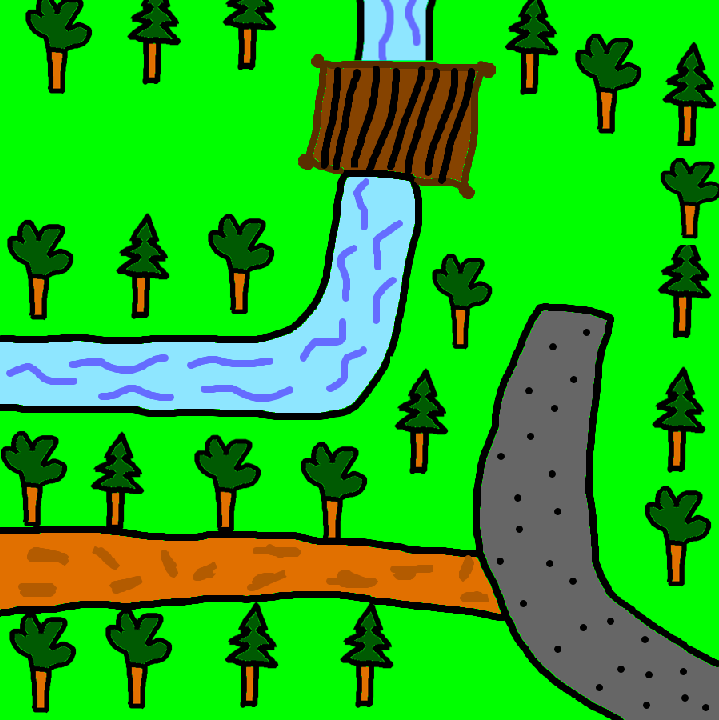
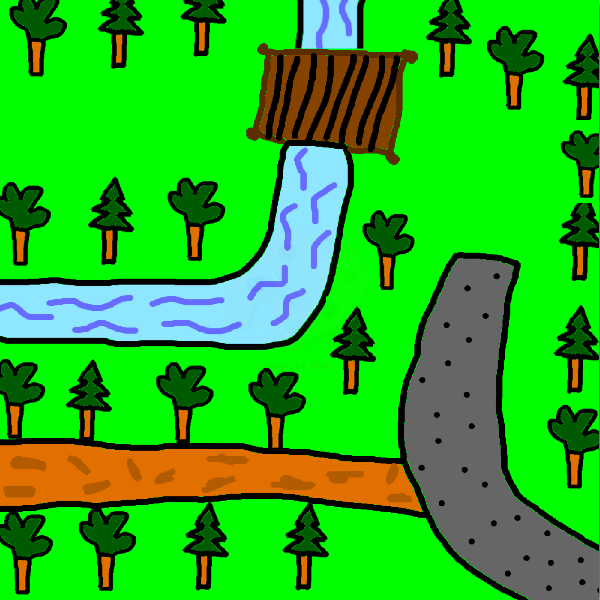
update

diff --git a/MoveTank/tank.js b/MoveTank/tank.js
@@ -3,89 +3,141 @@ var positieX= parseInt(window.getComputedStyle(image).backgroundPositionX);
 var positieY= parseInt(window.getComputedStyle(image).backgroundPositionY);
 var divbullet= document.getElementById("bullet");;
 
+var windowwidth= window.innerWidth;
+var windowheigth= window.innerHeight;
+
+var number= 84;
 var divbulletX=  336;
 var divbulletY=  170;
 
-var numberRight= 84;
-var numberRight2= 5;
-var numberLeft= 84;
-var numberLeft2= 5;
-var numberBottom= 5;
-var numberTop= 5;
+var pos_x = 0;
+var pos_y = 0;
+
+var bullet_pos_x=  pos_x;
+var bullet_pos_y=  pos_y;
+
+var bulletSpeed= 80;
+// var numberRight= 84;
+// var numberRight2= 5;
+// var numberLeft= 84;
+// var numberLeft2= 5;
+// var numberBottom= 5;
+// var numberTop= 5;
+
+var stapafstand = bulletSpeed;
 
 var traveldistance= 10;
 
-//de tank kan nu alleen rechts
+window.addEventListener('resize', new_window_resize);
 
+function new_window_resize() {
+    windowwidth= window.innerWidth;
+    windowheigth= window.innerHeight;
+}
+
+//de tank kan nu alleen rechts
 document.onkeydown = checkKey;
 image.style.transform = "rotate(90deg)";
 function checkKey(e) {
 	console.log("key nr = " + e.keyCode);
     e = e || window.event;
+    CheckOutOfScreen();
     if(e.keyCode == 32){
         console.log("spacebar");
-        divbullet.style.display= "inline-block";
-        for(a=0; a < 4; a++){
-            setInterval(function(){
-                divbullet.style.left= traveldistance + "px";
-                traveldistance= traveldistance+30;
-            }, 500)
-                   
-            console.log(traveldistance);
-            
-        }
+        Createbullet();
+
+        bullet_pos_x=  pos_x;
+        bullet_pos_y=  pos_y;
+
+        divbullet.style.left = bullet_pos_x + "px";
+        divbullet.style.top= bullet_pos_y + "px";
+
+        setInterval(function(){
+            console.log(bullet_pos_x, bullet_pos_y);
+            if(divbullet.style.transform == "rotate(90deg)"){
+                divbullet.style.left = bullet_pos_x + "px";
+                bullet_pos_x = bullet_pos_x + bulletSpeed;
+            } 
+            else if(divbullet.style.transform == "rotate(-90deg)"){
+                divbullet.style.left= bullet_pos_x + "px";
+                bullet_pos_x= bullet_pos_x - bulletSpeed;
+
+            }else if(divbullet.style.transform == "rotate(0deg)"){
+                divbullet.style.top= bullet_pos_y + "px";
+                bullet_pos_y= bullet_pos_y - bulletSpeed; 
+
+            }else if(divbullet.style.transform == "rotate(180deg)"){
+                divbullet.style.top= bullet_pos_y + "px";
+                bullet_pos_y= bullet_pos_y + bulletSpeed; 
+            }
+        }, 500);                
+           
         
     } else if (e.keyCode == '38') {  // up arrow
-        console.log("Up arrow");
+        // console.log(pos_x + " " + pos_y);
+        //voor het rollen
         image.style.transform = "rotate(0deg)";
-         //voor de beweging
-         image.style.bottom= (numberTop - numberBottom) + "px";
-         numberTop= numberTop + 15;
-
-
-         //voor de lichten
-        image.style.backgroundPositionX= positieX - numberLeft + "px"; // check goed de rupsband
-        numberLeft= numberLeft+84;
-    } else if (e.keyCode == '40') { // down arrow
-        console.log("down arrow");
-        image.style.transform = "rotate(180deg)";
+        image.style.backgroundPositionX= (positieX + number) + "px";
+        positieX=positieX + number;
+   
         //voor de beweging
-        image.style.bottom= (numberTop - numberBottom) + "px";
-        numberBottom= numberBottom + 15;
+        pos_y = pos_y - stapafstand;
+        image.style.top= pos_y + "px";
+    } else if (e.keyCode == '40') { // down arrow
+        
+        // console.log(pos_x + " " + pos_y);
+        // console.log("down arrow");
+        //voor het rollen
+        image.style.transform = "rotate(180deg)";
+        image.style.backgroundPositionX= (positieX - number) + "px";
+        positieX=positieX + number;
 
-        //voor de lichten
-        image.style.backgroundPositionX= positieX + numberRight + "px"; // check goed de rupsband
-        numberRight= numberRight+84;
+        //voor de beweging
+        pos_y = pos_y + stapafstand;
+        image.style.top= pos_y + "px";
     }    
     else if (e.keyCode == '37') { // left arrow
+        // console.log(pos_x + " " + pos_y);
+         //voor het rollen
         image.style.transform = "rotate(-90deg)";
-         //voor de lichten
-        image.style.backgroundPositionX= positieX - numberLeft + "px"; // check goed de rupsband
-        numberLeft= numberLeft+84;
+        image.style.backgroundPositionX= (positieX - number) + "px";
+        positieX=positieX + number;
 
         //voor de beweging
-        image.style.left= (numberRight2 - numberLeft2) + "px";
-        numberLeft2= numberLeft2 + 15;
-
+        pos_x= pos_x - stapafstand;
+        image.style.left= pos_x + "px"; 
     } else if (e.keyCode == '39') {   // right arrow
+        // console.log(pos_x + " " + pos_y);
+        //voor het rollen
         image.style.transform = "rotate(90deg)";
-        //voor de lichten
-        image.style.backgroundPositionX= positieX + numberRight + "px"; // check goed de rupsband
-        numberRight= numberRight+84;
-        console.log(image.style.backgroundPositionX);
+        image.style.backgroundPositionX= (positieX + number) + "px";
+         positieX=positieX + number;
+
         //voor de beweging
-        image.style.left= (numberRight2 - numberLeft2) + "px";
-        numberRight2= numberRight2 + 15;
+        pos_x= pos_x + stapafstand;
+        image.style.left= pos_x + "px";
     }
+    CheckOutOfScreen();
 }
 
 
 function Createbullet(){
     divbullet= document.createElement("div");
     divbullet.setAttribute('id', "bullet");
-    divbullet.style.transform = "rotate(90deg)";
-    divbullet.style.display= "none";
+    divbullet.style.transform = image.style.transform;
     document.body.appendChild(divbullet);
 }
-
-Createbullet();
+function CheckOutOfScreen(){
+    console.log(pos_x, pos_y);
+    console.log(windowwidth, windowheigth);
+    if(pos_x < 0){
+        pos_x= windowwidth;
+    } else if(pos_y < 0){
+        pos_y= windowheigth;
+    } else if(pos_x > windowwidth){
+        pos_x= 0;
+    } else if(pos_y > windowheigth){
+        pos_y= 0;
+    }
+    console.log(pos_x, pos_y);
+}

diff --git a/MoveTank/style.css b/MoveTank/style.css
@@ -7,12 +7,12 @@
 	height: 80px;
 	width: 80px;
 	background: url('tank.png') 0px 0px;
-	position: relative;
+	position: absolute;
 }
 
-#bullet{
+div#bullet{
 	background: url('tank.png') 336px 170px;
-	position: relative;
+	position: absolute;
 	height: 80px;
 	width: 80px;
 }
@@ -24,7 +24,7 @@ div{
 body{
 	background-image: url("maptank.png");
 	background-repeat: no-repeat;
-	background-size: 60%;
-	background-position: 300px 0px;
+	float: left;
+	background-position: 0px 0px;
 }
 
